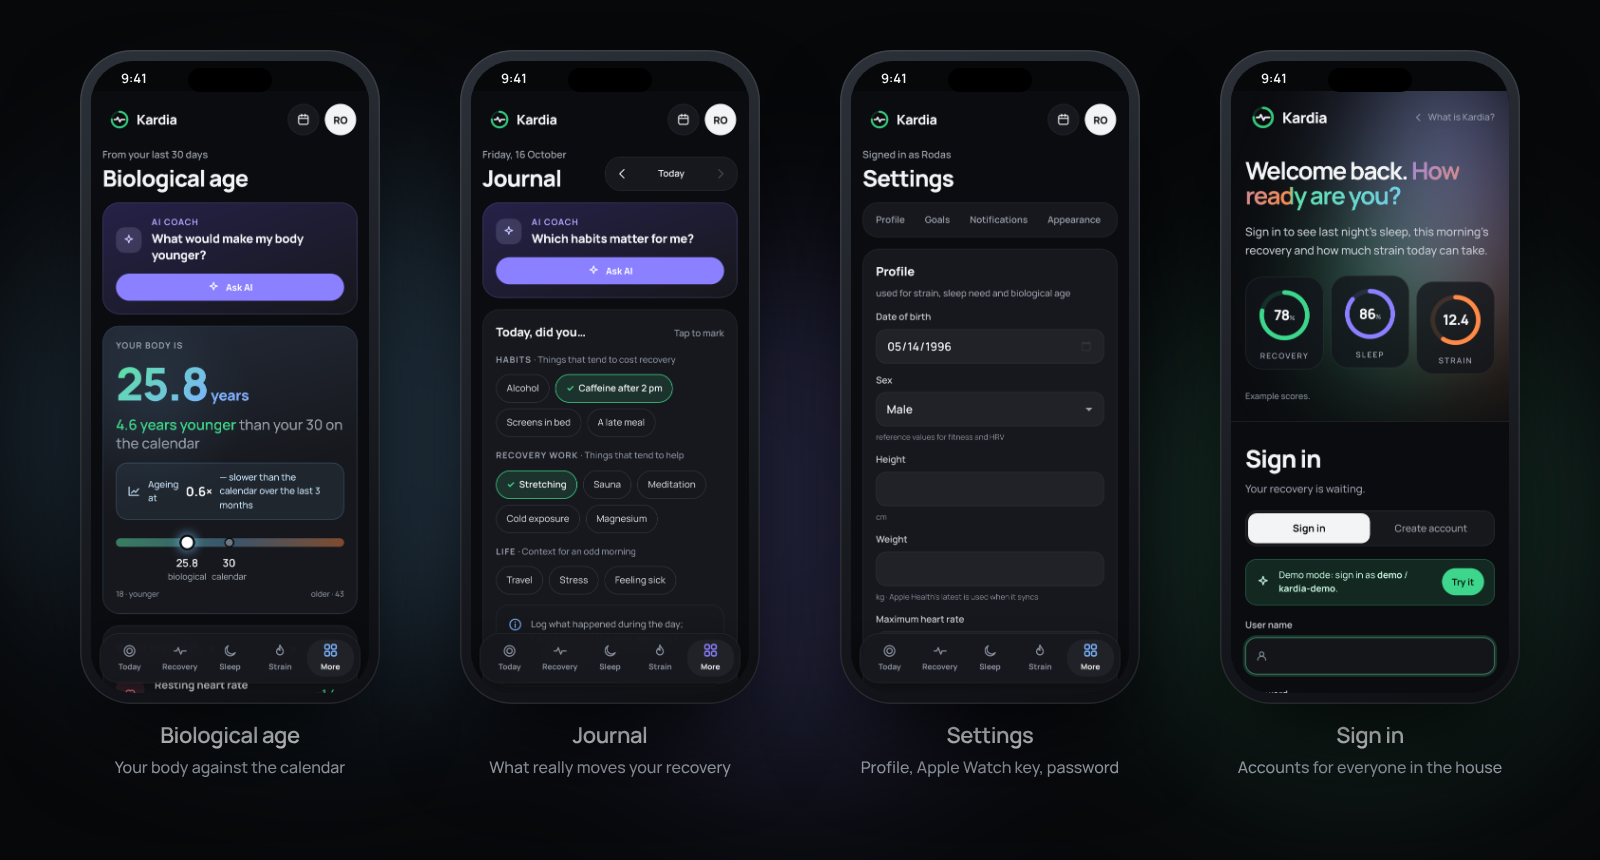
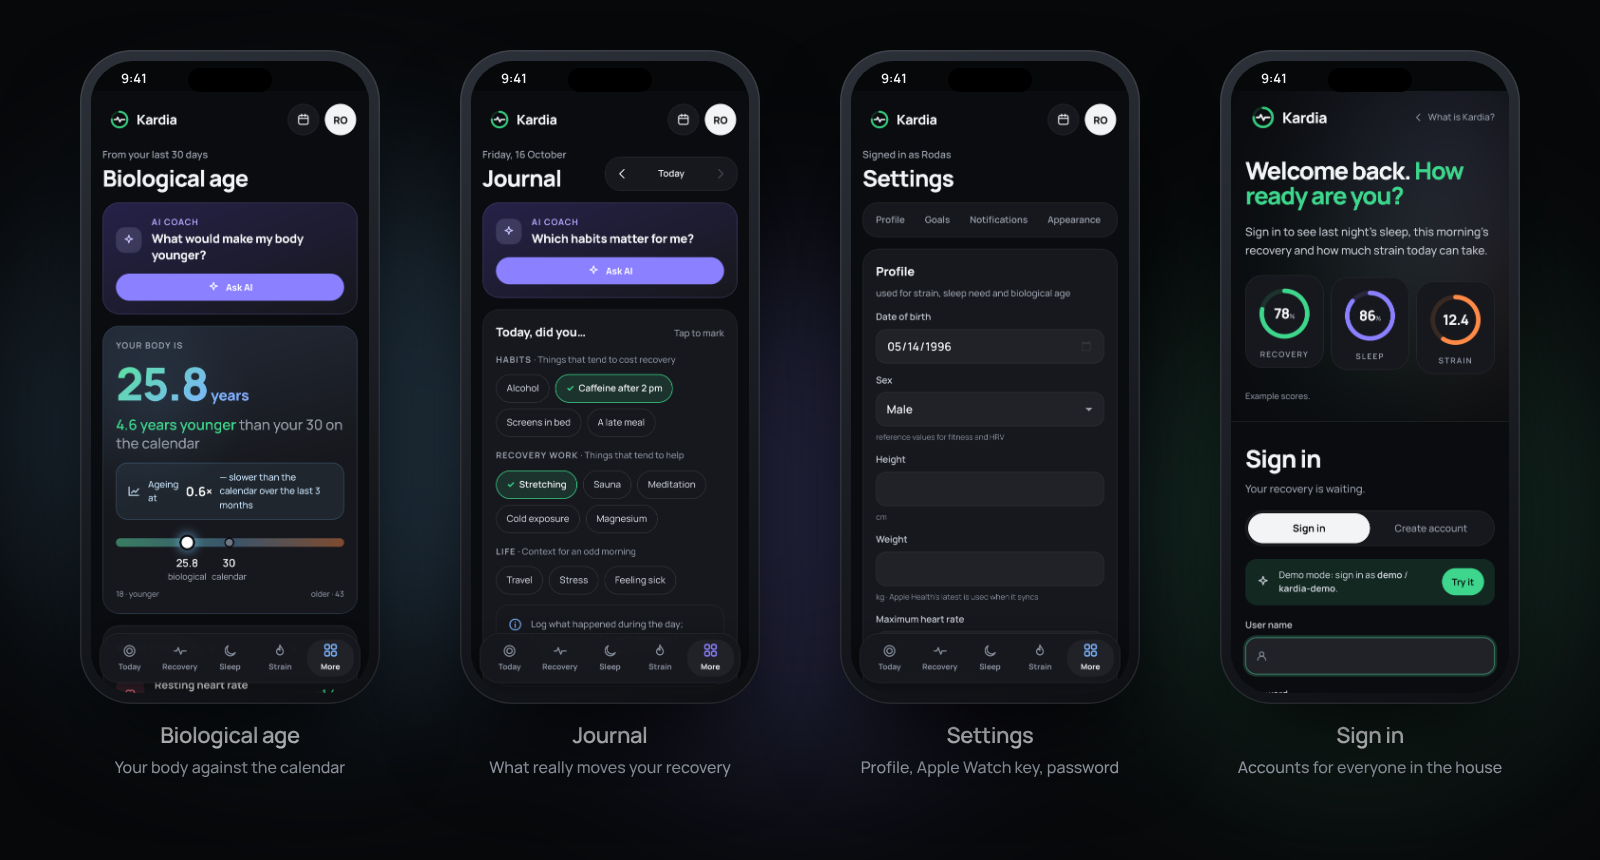
Landing and sign-in pages in the new look
- Calm, flat style: faint glow instead of the loud aurora, solid green accents, pill buttons, plain cards.
- The hero phone shows today's screen as the app draws it now (week strip, three rings, energy and
  stress, coach, tab bar with More); floats keep clear of the rings.
- New feature tiles: Health Monitor, stress and energy, the AI coach, and the rest (heart-rate
  recovery, weekly plan, reports, calendar, trends, daylight, breathing, notifications, light and dark).
- Ticker with stress, energy, heart-rate recovery and daylight; the recovery demo ring follows the zone colour.

Claude-Session: https://claude.ai/code/session_013TrDBzp2FF2rNixhPFYxgN

Changed region(s): [[0.7812, 0.0907, 0.9688, 0.4233], [0.7812, 0.3326, 0.8125, 0.4233]]

diff --git a/Kardia.Website/wwwroot/css/public.css b/Kardia.Website/wwwroot/css/public.css
@@ -1,7 +1,7 @@
 /* ==========================================================================
-   Kardia — public pages: the landing page and the sign-in / create-account forms. Same near-black and pillar colours
-   as the app, with the aurora (mint, periwinkle, ember) as the loud thing and live-looking example rings and cards.
-   Mobile layout under 900px. Built on the tokens of app.css.
+   Kardia — public pages: the landing page and the sign-in / create-account forms. The app's calm, flat look on its
+   near-black ground: a faint glow behind the hero, plain cards, flat rings, pill buttons and live-looking examples.
+   Mobile layout under 1000px. Built on the tokens of app.css; the v1.3 rules at the end win over the older ones.
    ========================================================================== */
 
 :root {
@@ -283,3 +283,114 @@
 }
 
 @media (max-width: 1023px) { .au-in input { font-size: 16px; } }
+
+/* ==================================================== v1.3 redesign == */
+
+.aurora { opacity: 0.2; filter: blur(110px); }
+.grain { display: none; }
+.grad-text { background: none; color: var(--rec); -webkit-text-fill-color: var(--rec); animation: none; }
+.btn-l { border-radius: 999px; font-weight: 700; }
+.btn-l.sm { border-radius: 999px; }
+.btn-l.brand { background: var(--rec); color: #06140C; box-shadow: none; }
+.btn-l.ghost { background: var(--surface); box-shadow: inset 0 0 0 1px var(--line); }
+.lp-eyebrow, .lp-proof span { background: var(--surface); box-shadow: inset 0 0 0 1px var(--line); }
+.lp-h1, .lp-h2, .lp-final h2, .au-side h2 { font-weight: 800; }
+.lp-kick { letter-spacing: 0.12em; }
+
+/* The phone: today's screen as the app draws it now. */
+.phone .screen { background: #0B0C0F; gap: 10px; padding: 44px 12px 12px; }
+.phone .p-head { display: flex; justify-content: space-between; align-items: flex-end; padding: 0 4px; }
+.phone .p-date { text-transform: none; letter-spacing: 0; font-size: 10px; font-weight: 600; }
+.phone .p-title { font-weight: 800; font-size: 18px; margin-top: 2px; }
+.phone .p-av { width: 26px; height: 26px; border-radius: 13px; background: var(--text); color: var(--bg); display: grid; place-items: center; font-size: 11px; font-weight: 800; }
+.phone .p-week { display: grid; grid-template-columns: repeat(7, minmax(0, 1fr)); padding: 5px 3px; border-radius: 16px; background: var(--surface); border: 1px solid var(--line); }
+.phone .p-week > span { display: flex; flex-direction: column; align-items: center; gap: 2px; padding: 3px 0; border-radius: 10px; }
+.phone .p-week > span.on { box-shadow: inset 0 0 0 1px var(--text); background: var(--tile); }
+.phone .p-week small { font-size: 7px; color: var(--dim); }
+.phone .p-week .mr { position: relative; width: 24px; height: 24px; }
+.phone .p-week .mr .mini-ring { width: 24px; height: 24px; }
+.phone .p-week .mr b { position: absolute; inset: 0; display: grid; place-items: center; font: 800 7px var(--font-display); }
+.phone .p-rings { display: grid; grid-template-columns: repeat(3, minmax(0, 1fr)); gap: 2px; padding: 12px 4px 10px; border-radius: 20px; background: var(--surface); border: 1px solid var(--line); }
+.phone .p-rings > div { display: flex; flex-direction: column; align-items: center; gap: 6px; }
+.phone .p-rings .ring-box { --size: 70px; }
+.phone .p-rings .ring-box .big { font-size: 17px; }
+.phone .p-rings small { font-size: 8px; font-weight: 700; letter-spacing: 0.1em; text-transform: uppercase; color: var(--muted); }
+.phone .p-pair { gap: 8px; }
+.phone .p-tile { display: flex; flex-direction: column; gap: 4px; padding: 10px; border-radius: 16px; background: var(--surface); border: 1px solid var(--line); min-width: 0; }
+.phone .p-tile small { font-size: 9px; color: var(--muted); font-weight: 600; }
+.phone .p-tile b { font: 800 17px/1 var(--font-display); letter-spacing: -0.03em; }
+.phone .p-tile em { font-style: normal; font-size: 9px; font-weight: 700; color: var(--muted); letter-spacing: 0; }
+.p-bar { display: block; height: 6px; border-radius: 3px; background: var(--line-2); overflow: hidden; }
+.p-bar i { display: block; height: 100%; border-radius: 3px; background: var(--nrg); }
+.phone .p-stress { display: flex; align-items: flex-end; gap: 1px; height: 18px; }
+.phone .p-stress i { flex: 1; border-radius: 1px; }
+.phone .p-coach { background: linear-gradient(160deg, #262148 0%, #17181D 100%); border: 1px solid rgba(167, 155, 255, 0.22); }
+.phone .p-tab { border-radius: 20px; background: var(--surface); border: 1px solid var(--line); }
+.phone .p-tab i.on { background: var(--tile); color: var(--text); }
+
+.float { background: rgba(23, 24, 29, 0.94); border: 1px solid var(--line); box-shadow: 0 30px 60px -24px rgba(0, 0, 0, 0.9); }
+.f-age .n, .age-vis .n { background: none; color: var(--sky); -webkit-text-fill-color: var(--sky); }
+.age-vis .n small { -webkit-text-fill-color: var(--muted); }
+
+.lp-ticker { background: var(--bg); border-color: var(--line); }
+.lp-ticker em.mid { background: color-mix(in srgb, var(--mid) 15%, transparent); color: var(--mid); }
+.lp-ticker em.sky { background: var(--nrg-soft); color: var(--sky); }
+
+.lp-step, .lp-panel, .lp-tile { background: var(--surface); border-color: var(--line); box-shadow: none; }
+.lp-step .n { color: #06140C; background: var(--rec); box-shadow: none; border-radius: 999px; }
+.lp-step:nth-child(2) .n { background: var(--slp); color: #FFFFFF; }
+.lp-step:nth-child(3) .n { background: var(--str); color: #1A0E06; }
+.lp-step .art { background: var(--tile); border: 0; }
+.slider input[type=range] { background: linear-gradient(90deg, var(--c, var(--rec)) 0%, var(--c, var(--rec)) var(--p, 50%), var(--line-2) var(--p, 50%)); }
+.slider input[type=range]::-webkit-slider-thumb { box-shadow: 0 0 0 1px var(--c, var(--rec)); }
+.demo-out .tgt { border-radius: 999px; }
+
+.t-rec { background: linear-gradient(165deg, color-mix(in srgb, var(--rec) 10%, var(--surface)) 0%, var(--surface) 55%); }
+.t-slp { background: linear-gradient(165deg, color-mix(in srgb, var(--slp) 13%, var(--surface)) 0%, var(--surface) 55%); }
+.t-str { background: linear-gradient(165deg, color-mix(in srgb, var(--str) 12%, var(--surface)) 0%, var(--surface) 55%); }
+.t-age { background: linear-gradient(165deg, color-mix(in srgb, var(--sky) 11%, var(--surface)) 0%, var(--surface) 55%); }
+.t-rec, .t-slp, .t-str, .t-age { border-color: var(--line); }
+.strain-scale .row i { background: var(--str); }
+.jou-tags span { border-radius: 999px; }
+.jou-effect { background: color-mix(in srgb, var(--low) 12%, transparent); border: 0; color: var(--text-2); }
+.jou-effect b { color: var(--low); }
+
+/* New tiles. */
+.t-hm { grid-column: span 2; } .t-stress { grid-column: span 4; } .t-coach { grid-column: span 3; } .t-more { grid-column: span 3; }
+.hm-vis { display: flex; gap: 8px; flex-wrap: wrap; }
+.hm-vis .hm-dot { width: 46px; height: 46px; border-radius: 15px; }
+.stress-vis { display: grid; grid-template-columns: minmax(0, 1.4fr) minmax(0, 1fr); gap: 22px; align-items: end; }
+.stress-vis .bars { display: flex; align-items: flex-end; gap: 3px; height: 86px; }
+.stress-vis .bars i { flex: 1; border-radius: 3px; }
+.stress-vis .energy { display: flex; flex-direction: column; gap: 8px; font-size: 13px; color: var(--muted); }
+.stress-vis .energy b { font-size: 34px; color: var(--sky); margin-right: 4px; }
+.stress-vis .p-bar { height: 10px; border-radius: 5px; }
+.stress-vis small { font-size: 12px; color: var(--dim); }
+.t-coach { background: linear-gradient(160deg, #262148 0%, #17181D 100%); border-color: rgba(167, 155, 255, 0.22); }
+.coach-vis { display: flex; flex-direction: column; gap: 8px; padding: 16px; border-radius: 18px; background: rgba(255, 255, 255, 0.05); }
+.coach-vis .k { display: inline-flex; align-items: center; gap: 6px; font-size: 11px; font-weight: 700; letter-spacing: 0.12em; text-transform: uppercase; color: #C9C5FF; }
+.coach-vis .k .ic { width: 14px; height: 14px; }
+.coach-vis b { font-size: 16px; font-weight: 800; letter-spacing: -0.01em; }
+.coach-vis ul { margin: 0; padding-left: 18px; font-size: 13px; color: var(--text-2); display: flex; flex-direction: column; gap: 4px; }
+.more-chips { display: flex; flex-wrap: wrap; gap: 8px; }
+.more-chips span { display: inline-flex; align-items: center; gap: 7px; padding: 8px 13px; border-radius: 999px; background: var(--tile); font-size: 13px; font-weight: 600; color: var(--text-2); }
+.more-chips .ic { width: 16px; height: 16px; color: var(--muted); }
+
+.lp-final-in { background: radial-gradient(70% 120% at 0% 0%, rgba(61, 214, 140, 0.14), transparent 60%), var(--surface); border-color: var(--line); }
+
+/* Sign-in and create-account. */
+.au-card { background: var(--surface); border-color: var(--line); box-shadow: none; -webkit-backdrop-filter: none; backdrop-filter: none; }
+.au-tabs { background: var(--surface); box-shadow: inset 0 0 0 1px var(--line); border-radius: 999px; }
+.au-tabs a { border-radius: 999px; }
+.au-in input, .au-in select { background: var(--tile); border-color: var(--line); }
+.au-demo { border-color: transparent; color: var(--text-2); }
+
+@media (max-width: 1000px) {
+  .t-hm, .t-stress, .t-coach, .t-more { grid-column: auto; }
+  .stress-vis { grid-template-columns: 1fr; }
+}
+/* Floats keep clear of the rings at the top of the phone. */
+.f-age { bottom: 116px; left: -54px; }
+.f-hr { top: auto; bottom: 6px; left: -36px; }
+.f-push { bottom: 200px; right: -44px; }
+@media (max-width: 560px) { .f-push { bottom: -6px; } }

diff --git a/Kardia.Website/wwwroot/js/landing.js b/Kardia.Website/wwwroot/js/landing.js
@@ -55,15 +55,8 @@
     var output = function (name) { return demo.querySelector('[data-out="' + name + '"]'); };
     var ring = demo.querySelector("[data-ring] svg");
     var values = ring ? ring.querySelectorAll(".ring-val") : [];
-    var knob = ring ? ring.querySelector(".ring-knob") : null;
-    var stops = ring ? ring.querySelectorAll("stop") : [];
     var LENGTH = 565.49;
     var NEED = 495;
-    var PALETTES = {
-      High: ["#C6FFE6", "#5BE3A6", "#1FB57A"],
-      Medium: ["#FFE7A3", "#F5C451", "#E0A21C"],
-      Low: ["#FFC2C2", "#FF6B6B", "#E04848"]
-    };
     var WORDS = {
       High: ["Ready to push", "var(--rec)", "Your body is ready: intervals, a long ride or a heavy session will pay off."],
       Medium: ["Steady day", "var(--mid)", "A normal day: train, but keep the hardest work for a green day."],
@@ -99,10 +92,9 @@
       output("advice").textContent = WORDS[zone][2];
       output("target").textContent = (centre - 1).toFixed(1) + "–" + (centre + 1).toFixed(1);
 
-      var fraction = score / 100, length = fraction * LENGTH, angle = fraction * 2 * Math.PI;
+      var length = score / 100 * LENGTH;
       values.forEach(function (circle) { circle.setAttribute("stroke-dasharray", length.toFixed(1) + " " + LENGTH); });
-      if (knob) { knob.setAttribute("cx", (110 + 90 * Math.cos(angle)).toFixed(1)); knob.setAttribute("cy", (110 + 90 * Math.sin(angle)).toFixed(1)); }
-      stops.forEach(function (stop, i) { stop.setAttribute("stop-color", PALETTES[zone][i] || PALETTES[zone][2]); });
+      if (ring) ring.style.setProperty("--ring", WORDS[zone][1]);
     };
 
     demo.addEventListener("input", paint);
